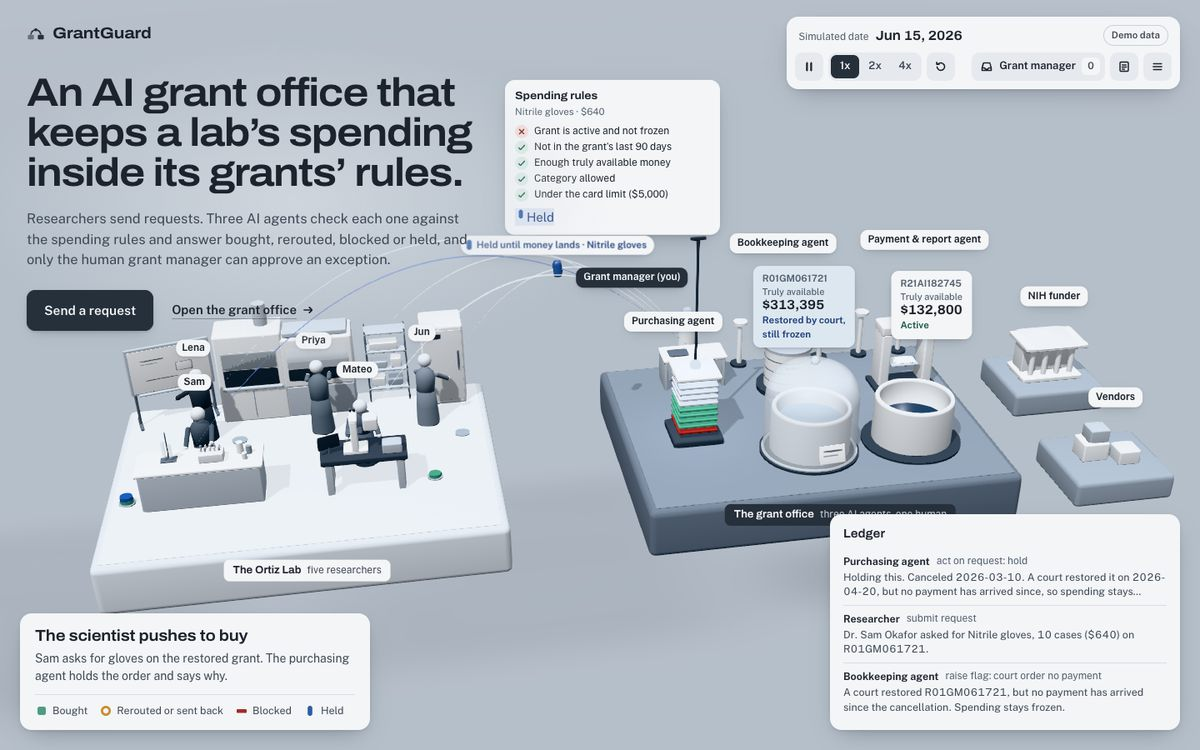
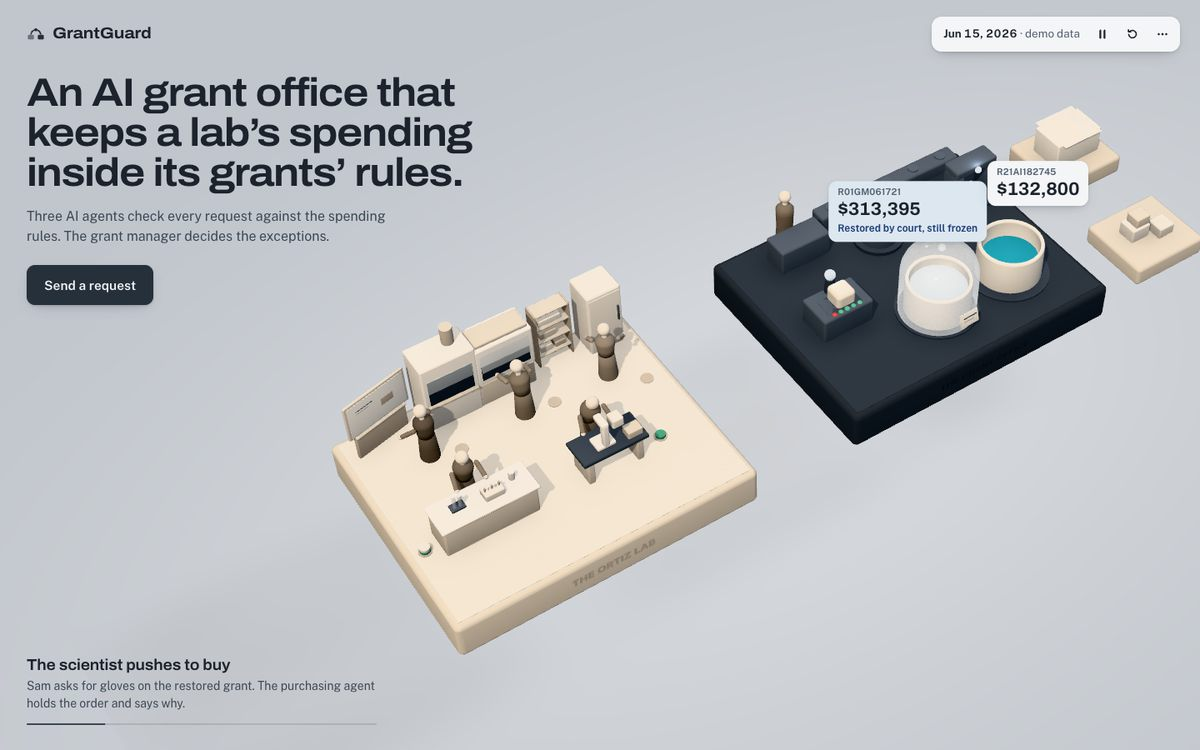
fix(hero): Clay lab parcels 1.4x, caption hides behind panels, phone gauges clear (T38)
The parcel is the one authored moment and was about 13 px at the hero
camera; it and its shadow, squash and trail scale up. The caption fades
while a side panel is open so it never sits unbacked over a zoomed scene.
On phones the R21 gauge clears R01's status line, and a parcel held for
money hovers in front of the frozen reservoir instead of against the jar.
New overview thumbnail at the top quality tier.

diff --git a/hero/src/demos/a/Flow.tsx b/hero/src/demos/a/Flow.tsx
@@ -195,7 +195,7 @@ function FlowFx() {
       const carried = !!req && (p.kind === 'request' || (p.kind === 'verdict' && p.outcome !== 'hold') || p.kind === 'hold' || p.kind === 'decision')
       if (trailed(p)) {
         const path = pathOf(p, carried, { a: new Vector3(), b: new Vector3(), h: 0 })
-        fading.push({ ...path, color: trailColor(p), width: carried ? 0.16 : 0.07, at: t })
+        fading.push({ ...path, color: trailColor(p), width: carried ? CARRY_W : 0.07, at: t })
       }
       if (p.kind === 'request' && p.to === 'a:purchasing') {
         fx.ripples.push({ pos: new Vector3(DESK.x, DESK_H + 0.012, DESK.z), color: '#F3F8FF', at: t, size: 0.95, ms: 700 })
@@ -331,7 +331,9 @@ function writeTrail(s: TrailSlot, path: Path, u0: number, u1: number, width: num
 
 // ── Geometry and materials ───────────────────────────────────────────────
 
-const parcelGeo = new RoundedBoxGeometry(PARCEL, PARCEL * 0.84, PARCEL, 4, 0.085)
+const parcelGeo = new RoundedBoxGeometry(PARCEL, PARCEL * 0.84, PARCEL, 4, PARCEL * 0.21)
+const BLOB = PARCEL * 1.55 // a parcel's soft shadow
+const CARRY_W = PARCEL * 0.4 // the trail behind a parcel
 const parcelMat = new MeshPhysicalMaterial({ color: '#ffffff', roughness: 0.48, clearcoat: 0.35, clearcoatRoughness: 0.4 })
 const beadGeo = new SphereGeometry(0.09, 20, 14)
 const beadMat = new MeshStandardMaterial({ color: '#ffffff', roughness: 0.5 })
@@ -415,7 +417,7 @@ function Moving() {
       m.setMatrixAt(i, o.matrix)
       m.setColorAt(i, c)
     }
-    const blob = (x: number, y: number, z: number, height: number, size = 0.62) => {
+    const blob = (x: number, y: number, z: number, height: number, size = BLOB) => {
       if (nbl >= CAP) return
       const strength = 0.42 * clamp01(1 - height / 4.2)
       if (strength <= 0.01) return
@@ -427,7 +429,7 @@ function Moving() {
     }
     const ground = (x: number, y: number, z: number, h = 0) => {
       const g = groundAt(x, z)
-      if (g !== null) blob(x, g, z, y - g, h || 0.62)
+      if (g !== null) blob(x, g, z, y - g, h || BLOB)
     }
     const trail = (pth: Path, u0: number, u1: number, c: Color, width: number, alpha: number) => {
       if (ntr >= TRAILS || u1 <= u0 + 0.001) return
@@ -547,11 +549,11 @@ function Moving() {
           const u = still ? k : inOut((k - LAUNCH) / (1 - LAUNCH))
           arcPoint(path.a, path.b, u, path.h, o.position)
           orient(path, u, u * Math.PI * 0.75)
-          trail(path, Math.max(0, u - 0.5), u, TRAIL_LIGHT, 0.16, 0.7)
+          trail(path, Math.max(0, u - 0.5), u, TRAIL_LIGHT, CARRY_W, 0.88)
         }
       } else if (state === 'desk') {
         pa.copy(DESK)
-        pa.x += atDesk === 0 ? 0 : (atDesk % 2 ? -0.48 : 0.48)
+        pa.x += atDesk === 0 ? 0 : (atDesk % 2 ? -0.6 : 0.6)
         atDesk++
         if (rest(pa)) {
           const q = still ? 0 : squash(t - life.restAt)
@@ -584,7 +586,7 @@ function Moving() {
           arcPoint(path.a, path.b, u, path.h, o.position)
           orient(path, u, state === 'return' ? u * Math.PI * 0.75 : 0)
           col.copy(GL[to])
-          if (state !== 'toPark') trail(path, Math.max(0, u - 0.5), u, GL[to], 0.16, 0.75)
+          if (state !== 'toPark') trail(path, Math.max(0, u - 0.5), u, GL[to], CARRY_W, 0.9)
           if (state === 'toPark' && raw >= 1 && !still) o.position.y += 0.06 * Math.sin((t / 2400) * Math.PI * 2 + r.id.length)
         }
         if (k >= stampEnd) life.tint = GL[to]
@@ -604,7 +606,7 @@ function Moving() {
 
       life.pos.copy(o.position)
       if (np < CAP) put(P, np++, col)
-      if (shadowY !== null) blob(o.position.x, shadowY, o.position.z, 0, 0.6)
+      if (shadowY !== null) blob(o.position.x, shadowY, o.position.z, 0, BLOB)
       else ground(o.position.x, o.position.y, o.position.z)
     }
     for (const [id, l] of lives) if (frame - l.seen > 2) lives.delete(id)
@@ -644,7 +646,7 @@ function Moving() {
       o.scale.set(Math.max(1e-4, sx), Math.max(1e-4, sy), Math.max(1e-4, sx))
       o.position.y = l.pos.y - ((1 - sy) * PARCEL * 0.84) / 2 + (o.position.y - l.pos.y)
       if (np < CAP) put(P, np++, col)
-      if (sx > 0.05) blob(l.pos.x, 0, l.pos.z, 0, 0.62 * sx)
+      if (sx > 0.05) blob(l.pos.x, 0, l.pos.z, 0, BLOB * sx)
     }
 
     // Everything else that travels: beads, slips and drops.
@@ -731,7 +733,7 @@ function Moving() {
         if (e >= 1) fading.splice(i, 1)
         continue
       }
-      trail(f, 0.5 + 0.5 * e, 1, f.color, f.width, (f.width > 0.1 ? 0.75 : 0.6) * (1 - e))
+      trail(f, 0.5 + 0.5 * e, 1, f.color, f.width, (f.width > 0.1 ? 0.88 : 0.6) * (1 - e))
     }
 
     for (const [m, n] of [

diff --git a/hero/src/demos/a/layout.ts b/hero/src/demos/a/layout.ts
@@ -59,7 +59,7 @@ export const STATIONS: Record<string, Station> = {
 
 export const PURCHASING: V3 = [2.95, 0, 0.25]
 export const DESK_H = 0.74
-export const PARCEL = 0.4
+export const PARCEL = 0.56
 /** Where a request parcel rests while the purchasing agent checks it. */
 export const DESK_SPOT: V3 = [PURCHASING[0], DESK_H + PARCEL / 2, PURCHASING[2] + 0.12]
 export const BOOKKEEPING: V3 = [5.55, 0, -1.55]
@@ -111,10 +111,13 @@ export function landOf(id: string, out = new Vector3()) {
   return out.set(s.stack[0] + 0.42, PARCEL * 0.42, s.stack[2] + 0.18)
 }
 
-/** Parcels held until money lands hover beside their grant, nearest the purchasing desk. */
+/**
+ * Parcels held until money lands hover in front of their grant, toward the purchasing
+ * desk: low and forward enough that, from the hero camera, they clear both the jar and the desk.
+ */
 export function parkOf(gid: string, i: number, out = new Vector3()) {
   const p = RESERVOIRS[gid] ?? RESERVOIRS.R01GM061721
-  return out.set(p[0] - 1.45, 1.35, p[2] + 0.75 - i * 0.5)
+  return out.set(p[0] - 2.8 - i * 0.72, 1.1, p[2] + 1.45)
 }
 
 export const isLab = (id: string) => id.startsWith('r:')

diff --git a/hero/src/demos/a/demo-a.css b/hero/src/demos/a/demo-a.css
@@ -374,6 +374,13 @@
   left: 32px;
   bottom: 30px;
   width: min(428px, calc(50vw - 300px));
+  transition: opacity 240ms ease, visibility 0s linear 0s;
+}
+/* A panel brings the camera in close; the caption steps aside rather than sit over the scene. */
+.demo-a[data-panel] .a-caption {
+  opacity: 0;
+  visibility: hidden;
+  transition: opacity 200ms ease, visibility 0s linear 200ms;
 }
 .demo-a .a-caption .a-date {
   display: none;
@@ -1322,9 +1329,6 @@
     margin-bottom: 6px;
     font-size: 13px;
   }
-  .demo-a[data-panel] .a-caption {
-    visibility: hidden;
-  }
   .demo-a .a-panel {
     top: auto;
     left: 8px;
@@ -1344,6 +1348,10 @@
   }
   .demo-a .a-gauge {
     padding: 4px 8px 5px;
+  }
+  /* The tall camera lines the reservoirs up; R21's gauge steps up clear of R01's. */
+  .demo-a .a-gauge[data-side='r'] {
+    translate: -28% calc(-100% - 36px);
   }
   .demo-a .a-gauge-id,
   .demo-a .a-gauge-state {
